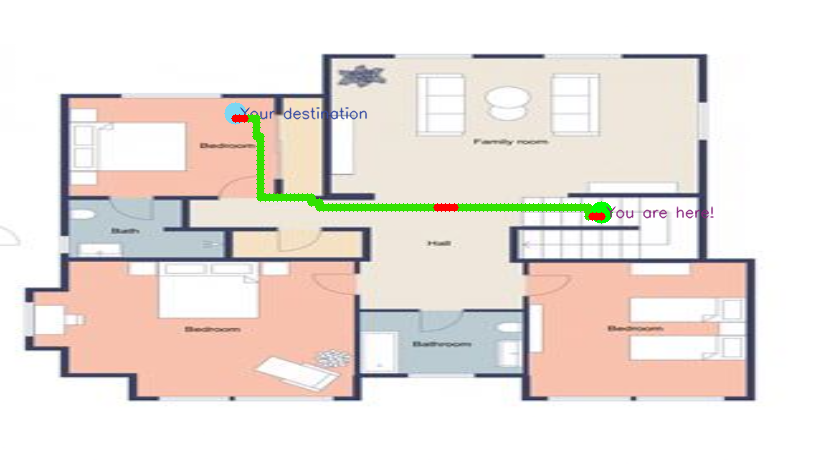
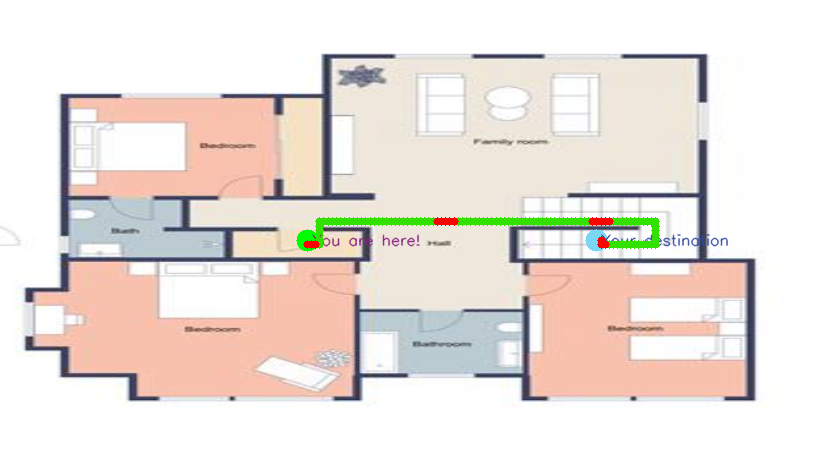
added the rotatin image and fixed the stairs issue along with time and distance for multiple floors

Changed region(s): [[0.2724, 0.2108, 0.8777, 0.5419]]

diff --git a/inmapapp/templates/inmapapp/result.html b/inmapapp/templates/inmapapp/result.html
@@ -8,7 +8,7 @@
   <meta http-equiv="X-UA-Compatible" content="ie=edge" />
   <meta name="Description" content="Enter your description here" />
   <title>Indoor mapping</title>
-
+  <script src="https://kit.fontawesome.com/13949e12af.js" crossorigin="anonymous"></script>
   <!-- Font Collection -->
   <link href="https://fonts.googleapis.com/css2?family=Fredoka+One&display=swap" rel="stylesheet" />
   <!-- font style tags -->
@@ -23,6 +23,16 @@
   <script src="https://code.jquery.com/jquery-3.4.1.min.js"
     integrity="sha256-CSXorXvZcTkaix6Yvo6HppcZGetbYMGWSFlBw8HfCJo=" crossorigin="anonymous"></script>
     <script>
+      
+      {% comment %} this is for the result generated time section it uses jquery {% endcomment %}
+      $(window).scroll(function() {
+        var windowBottom = $(this).scrollTop() + $(this).innerHeight();
+        var elementTop = $('#fade-in-div').offset().top;
+        if (elementTop < windowBottom) {
+          $('#fade-in-div').css('opacity', '1');
+        }
+      });
+      {% comment %} this is used for switching floor section {% endcomment %}
       function switchFloor(){
         const o1=document.getElementById('overlay1');
         const o2=document.getElementById('overlay2');
@@ -43,7 +53,7 @@
     }
     </script>
 </head>
-<body">
+<body>
   <div class="container-sm">
     <nav class="navbar bg-light main-heading" style="font-family: 'Fredoka One', cursive">
       <div class="container-fluid justify-content-center">
@@ -59,7 +69,7 @@
       <div class="img-wrapper" id="overlay1" style="left:0%;">
         
         <div class="img-wrapper-overlay"></div>
-        <img src="{%static 'inmapapp/modfloor1.png' %}" class="img-fluid" alt="...">
+        <img id="rotate-img" src="{%static 'inmapapp/modfloor1.png' %}" class="img-fluid" alt="...">
         <div class="border border-primary rounded p-2">floor1</div>
        
       </div>
@@ -71,7 +81,7 @@
         
         <div class="img-wrapper-overlay"></div>
 
-        <img src="{%static 'inmapapp/modfloor2.png' %}" class="img-fluid" alt="...">
+        <img id="rotate-img" src="{%static 'inmapapp/modfloor2.png' %}" class="img-fluid" alt="...">
         <div class="border border-primary rounded p-2">floor2</div>
       </div>
       
@@ -82,7 +92,7 @@
     <div class="img-wrapper" id="overlay1" style="left:0%;">
         
       <div class="img-wrapper-overlay"></div>
-      <img src="{%static 'inmapapp/modfloor1.png' %}" class="img-fluid" alt="...">
+      <img id="rotate-img" src="{%static 'inmapapp/modfloor1.png' %}" class="img-fluid" alt="...">
       <br>
       <div class="border border-primary rounded p-2">floor1</div>
 
@@ -91,42 +101,43 @@
         
       <div class="img-wrapper-overlay"></div>
 
-      <img src="{%static 'inmapapp/modfloor2.png' %}" class="img-fluid" alt="...">
+        <img id="rotate-img" src="{%static 'inmapapp/modfloor2.png' %}" class="img-fluid" alt="...">
 <div class="border border-primary rounded p-2">floor2</div>
     </div>
     </div>
     <button class="btn btn-grad ms-auto" onclick="switchFloor()">switch</button>
     {%endif%}
-    
-
-    
-    
-
-    
-    
-    
+    <br>
+    <br>
+    <br>
+    <br>
     <div class="container">
       <div class="row justify-content-center">
         <div class="col-sm-6 col-md-4 text-center">
           <i style="color:blue;"class="fas fa-walking fa-2x mb-3 blue-icon animated walking"></i>
           <h4>Walkable Distance</h4>
-          <p class="lead mb-5">{{solution_meters}}m or {{solution_feet}}ft</p>
+          <p class="lead mb-5">{{solution_meters}}m or {{solution_feet}} steps</p>
         </div>
         <div class="col-sm-6 col-md-4 text-center">
           <i style="color:blue;" class="far fa-clock fa-2x mb-3 blue-icon animated ticking"></i>
           <h4>Time Taken</h4>
           <p class="lead mb-5">{{solution_time}} seconds</p>
         </div>
+        {%if stairs%}
+        <div class="col-sm-6 col-md-4 text-center">
+          <i style="color:blue;" class="fa-solid fa-stairs fa-2x mb-3 blue-icon"></i>
+          <h4>stairs ahead!</h4>
+        {%endif%}
       </div>
     </div>
-   
-    
-
-
-    <hr />
-    <h4>Result in {{time}}s</h4>
-    <hr />
-       
+    <br>
+    <br>
+    <div id="fade-in-div" class="card text-white bg-info mb-3 mx-auto" style="max-width: 18rem;">
+      <div class="card-header">Result Generated in {{time}}s</div>
+      </div>
+    </div>
+    <br>
+    <br>
     <div class="qr-heading text-center qr-form2 col-lg-5 mx-auto d-grid gap-3">
       <h3 class="justify-content-center" style="font-family: 'Dancing Script', cursive; font-size: 30px">
         feels lost? Rescan to update!
@@ -175,6 +186,37 @@
         </div> -->
     </div>
   </footer>
+  <script>
+    var rotateImg = document.getElementById('rotate-img');
+var startAngle = 0;
+var currentAngle = 0;
+
+rotateImg.addEventListener('mousedown', function(e) {
+  e.preventDefault();
+  startAngle = getAngle(e.clientX, e.clientY);
+  document.addEventListener('mousemove', rotateImage);
+});
+
+document.addEventListener('mouseup', function() {
+  document.removeEventListener('mousemove', rotateImage);
+});
+
+function rotateImage(e) {
+  e.preventDefault();
+  currentAngle = getAngle(e.clientX, e.clientY);
+  rotateImg.style.transform = 'rotate(' + (currentAngle - startAngle) + 'deg)';
+}
+
+function getAngle(x, y) {
+  var rect = rotateImg.getBoundingClientRect();
+  var centerX = rect.left + rect.width / 2;
+  var centerY = rect.top + rect.height / 2;
+  var radians = Math.atan2(y - centerY, x - centerX);
+  return radians * 180 / Math.PI;
+}
+
+
+  </script>
  <script src="https://cdnjs.cloudflare.com/ajax/libs/jquery/2.1.3/jquery.min.js"></script>
  
 

diff --git a/inmapapp/static/inmapapp/animation.css b/inmapapp/static/inmapapp/animation.css
@@ -11,6 +11,15 @@
   .walking {
     animation-name: walk;
   }
+  #fade-in-div {
+    opacity: 0;
+    transition: opacity 2s ease-in-out;
+  }
+  #rotate-img {
+    transform-origin: center;
+    transition: transform 0.2s ease-in-out;
+  }
+  
   
   @keyframes walk {
     0% {

diff --git a/inmapapp/views.py b/inmapapp/views.py
@@ -36,7 +36,13 @@ def index(request):
         else:
             From = FromMan
             To = ToMan
-        if From in floor1checkpoint and To in floor1checkpoint:
+        if From==To:
+            print("same destination and location")
+            return redirect('index')
+        elif From == "stairexit-1st-floor" or From=="stairexit-2nd-floor" or To=="stairentry-1st-floor" or To=="stairentry-2nd-floor":
+            print("staircase entry and exit error")
+            return redirect('index')
+        elif From in floor1checkpoint and To in floor1checkpoint:
             From_x,From_y = floor1checkpoint[From]
             To_x,To_y = floor1checkpoint[To]
             m = Maze(os.path.abspath('inmapapp/static/inmapapp/floor1.txt'),From_x,From_y,To_x,To_y,"floor1.png")
@@ -49,42 +55,64 @@ def index(request):
             print(solution_meters,solution_feet,solution_time)
             floor1 = True
             floor2 = False
-            
-            return render(request,'inmapapp/result.html',{'floor1':floor1,'floor2':floor2,'time':round(time.time()-then,3),'update':True,'solution_meters':solution_meters,'solution_feet':solution_feet,'solution_time':solution_time})
-        if From in floor2checkpoint and To in floor2checkpoint:
+            stairs = False
+            return render(request,'inmapapp/result.html',{'floor1':floor1,'floor2':floor2,'time':round(time.time()-then,3),'update':True,'solution_meters':solution_meters,'solution_feet':solution_feet,'solution_time':solution_time,'stairs':stairs})
+        elif From in floor2checkpoint and To in floor2checkpoint:
             From_x,From_y = floor2checkpoint[From]
             To_x,To_y = floor2checkpoint[To]
             m = Maze(os.path.abspath('inmapapp/static/inmapapp/floor2.txt'),From_x,From_y,To_x,To_y,"floor2.png")
             m.solve()
-            m.output_image()
+            solution_meters = round(m.output_image()*avg_perpix)
+            solution_time = round(solution_meters*1.2)
+            solution_feet = round(solution_meters*1.3)
+            # print(m.output_image())
+            print(avg_perpix)
+            print(solution_meters,solution_feet,solution_time)
             floor1=False
             floor2 = True
-            return render(request,'inmapapp/result.html',{'floor1':floor1,'floor2':floor2,'time':time.time()-then,'update':True})
-        if From in floor1checkpoint and To in floor2checkpoint:
+            stairs = False
+            return render(request,'inmapapp/result.html',{'floor1':floor1,'floor2':floor2,'time':round(time.time()-then,3),'update':True,'solution_meters':solution_meters,'solution_feet':solution_feet,'solution_time':solution_time,'stairs':stairs})
+        elif From in floor1checkpoint and To in floor2checkpoint:
             print("from floor1 and to floor2")
             From_x,From_y = floor1checkpoint[From]
             To_x,To_y = floor2checkpoint[To]
             m = Maze(os.path.abspath('inmapapp/static/inmapapp/floor1.txt'),From_x,From_y,106,53,"floor1.png")
             m.solve()
-            m.output_image()
+            solution_meters_floor1 = round(m.output_image()*avg_perpix)
+            solution_time_floor1 = round(solution_meters_floor1*1.2)
+            solution_feet_floor1 = round(solution_meters_floor1*1.3)
             n = Maze(os.path.abspath('inmapapp/static/inmapapp/floor2.txt'),143,45,To_x,To_y,"floor2.png")
             n.solve()
-            n.output_image()
+            solution_meters_floor2 = round(n.output_image()*avg_perpix)
+            solution_time_floor2 = round(solution_meters_floor2*1.2)
+            solution_feet_floor2 = round(solution_meters_floor2*1.3)
+            solution_meters = solution_meters_floor1+solution_meters_floor2
+            solution_time = solution_time_floor1+solution_time_floor2
+            solution_feet = solution_feet_floor1+solution_feet_floor2
             floor1=True
             floor2=True
-            return render(request,'inmapapp/result.html',{'floor1':floor1,'floor2':floor2,'time':time.time()-then,'update':True})
-        if From in floor2checkpoint and To in floor1checkpoint:
+            stairs = True
+            return render(request,'inmapapp/result.html',{'floor1':floor1,'floor2':floor2,'time':round(time.time()-then,3),'update':True,'solution_meters':solution_meters,'solution_feet':solution_feet,'solution_time':solution_time,'stairs':stairs})
+        elif From in floor2checkpoint and To in floor1checkpoint:
             From_x,From_y = floor2checkpoint[From]
             To_x,To_y = floor1checkpoint[To]
             m = Maze(os.path.abspath('inmapapp/static/inmapapp/floor2.txt'),From_x,From_y,142,51,"floor2.png")
             m.solve()
-            m.output_image()
+            solution_meters_floor1 = round(m.output_image()*avg_perpix)
+            solution_time_floor1 = round(solution_meters_floor1*1.2)
+            solution_feet_floor1 = round(solution_meters_floor1*1.3)
             n = Maze(os.path.abspath('inmapapp/static/inmapapp/floor1.txt'),106,45,To_x,To_y,"floor1.png")
             n.solve()
-            n.output_image()
+            solution_meters_floor2 = round(n.output_image()*avg_perpix)
+            solution_time_floor2 = round(solution_meters_floor2*1.2)
+            solution_feet_floor2 = round(solution_meters_floor2*1.3)
+            solution_meters = solution_meters_floor1+solution_meters_floor2
+            solution_time = solution_time_floor1+solution_time_floor2
+            solution_feet = solution_feet_floor1+solution_feet_floor2
             floor1=True
             floor2=True
-            return render(request,'inmapapp/result.html',{'floor1':floor1,'floor2':floor2,'time':time.time()-then,'update':True})
+            stairs = True
+            return render(request,'inmapapp/result.html',{'floor1':floor1,'floor2':floor2,'time':round(time.time()-then,3),'update':True,'solution_meters':solution_meters,'solution_feet':solution_feet,'solution_time':solution_time,'stairs':stairs})
             # print(From_x,From_y,To_x,To_y)
             
             # /home/sooraj/Documents/PROJECTS/INMAPWEB/inmapproject/inmapapp/static/inmapapp/map.txt
@@ -106,7 +134,7 @@ def result(request):
 def sample(request):
     ans=""
     for sol in sols:
-        ans+=f'''<div style="width:10px;height:10px;border:5px solid black;position: absolute;top: {sol[1]*4.2}px;left: {sol[0]*4.7}px;"> </div>'''
+        ans+=f'''<diexitv style="width:10px;height:10px;border:5px solid black;position: absolute;top: {sol[1]*4.2}px;left: {sol[0]*4.7}px;"> </diexitv>'''
     return render(request,'inmapapp/sample.html',{"data":ans})
 def test(request):
     From = request.POST.get('fromLocation')
